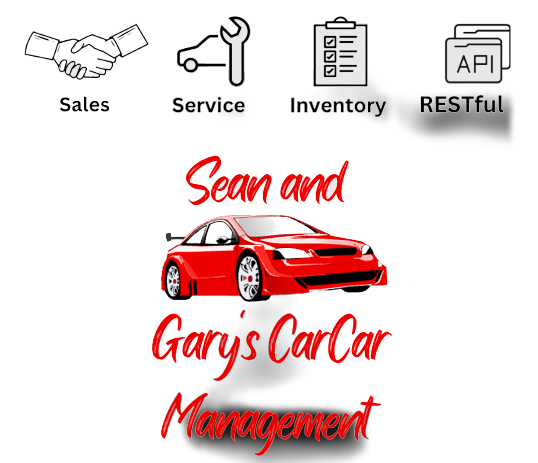
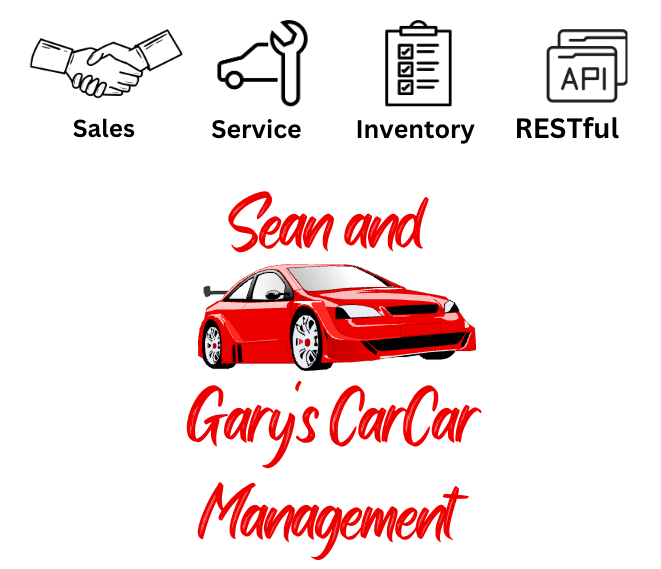
Fixed png's for projects

diff --git a/src/App.js b/src/App.js
@@ -1,6 +1,6 @@
 import Layout from './components/Layout'
 import './App.scss';
-import { Route, Switch } from 'react-router-dom'
+import { Route, Routes} from 'react-router-dom'
 import React from 'react'
 import Home from './components/home';
 import About from './components/About';
@@ -10,14 +10,14 @@ import Portfolio from './components/Portfolio';
 function App() {
   return (
     <>
-      <Switch>
+      <Routes>
         <Route path="/" element={<Layout />}>
           <Route index element={<Home />} />
           <Route path='/about' element={<About />} />
           <Route path='/contact' element={<Contact />} />
           <Route path='/Portfolio' element={<Portfolio />} />
         </Route>
-      </Switch>
+      </Routes>
     </>
   );
 }
